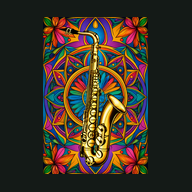
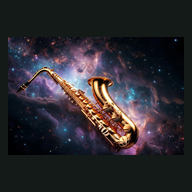
Add files via upload

diff --git a/rotina-saxofone.html b/rotina-saxofone.html
@@ -27,7 +27,7 @@
     background-image: repeating-linear-gradient(var(--line), var(--line) 1px, transparent 1px, transparent 4px); opacity:0.5;}
 
   header.hero{padding:0 0 14px; border-bottom:1px solid var(--line);}
-  .cover{width:100%; height:225px; object-fit:cover; object-position:center 2%; display:block;}
+  .cover{width:100%; height:225px; object-fit:cover; object-position:center 59%; display:block;}
   .hero-text{padding:16px 18px 0;}
   .eyebrow{font-family:'JetBrains Mono',monospace; font-size:11px; letter-spacing:0.12em; text-transform:uppercase; color:var(--brass);}
   .hero h1{font-size:24px; margin-top:6px;}